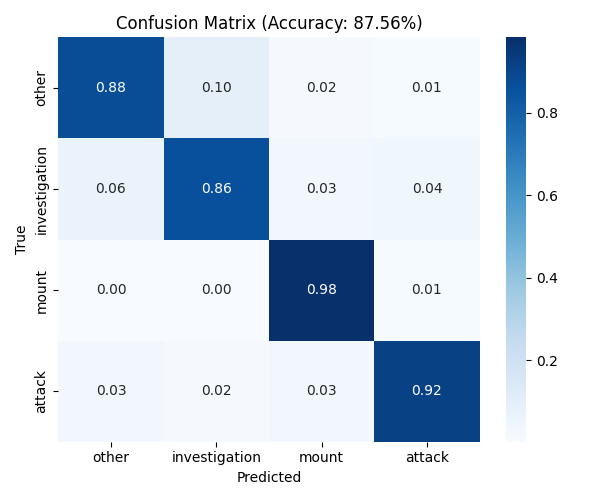
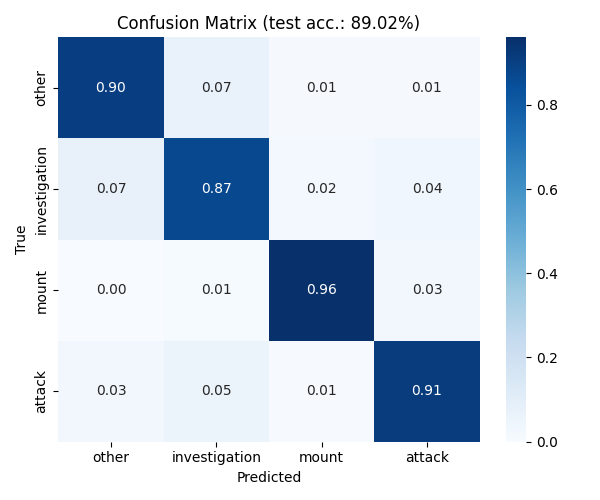
add models+results

diff --git a/src/train_dropout.py b/src/train_dropout.py
@@ -36,13 +36,17 @@ class ResNetClassifier(nn.Module):
         super().__init__()
         self.input_layer = nn.Linear(input_dim, hidden_dim)
         self.res1 = ResidualBlock(hidden_dim)
+        self.dropout = nn.Dropout(p=0.15)
         self.res2 = ResidualBlock(hidden_dim)
         self.output_layer = nn.Linear(hidden_dim, num_classes)
 
     def forward(self, x):
         x = torch.relu(self.input_layer(x))
+        x = self.dropout(x)
         x = self.res1(x)
+        x = self.dropout(x)
         x = self.res2(x)
+        x = self.dropout(x)
         return self.output_layer(x)
 
 # train
@@ -51,6 +55,8 @@ def train(model, dataloader, optimizer, criterion, device, writer, epoch):
     running_loss = 0.0
     for i, (inputs, labels) in enumerate(dataloader):
         inputs, labels = inputs.to(device), labels.to(device)
+        # noise = torch.normal(0, 0.02, size=inputs.shape).to(device)
+        # inputs = inputs + noise
         optimizer.zero_grad()
         logits = model(inputs)
         loss = criterion(logits, labels)
@@ -80,7 +86,7 @@ def main():
     import argparse
     parser = argparse.ArgumentParser()
     parser.add_argument('--data', type=str, default='data/processed/data.pt')
-    parser.add_argument('--output', type=str, default='models/baseline_stratified.pth')
+    parser.add_argument('--output', type=str, default='models/dropout_stratified.pth')
     args = parser.parse_args()
 
     # load data
@@ -104,7 +110,7 @@ def main():
     optimizer = optim.Adam(model.parameters(), lr=1e-3, weight_decay=1e-2)
     weights = get_class_weights(train_y, num_classes=4).to(device)
     criterion = nn.CrossEntropyLoss(weight=weights, label_smoothing=0.1)
-    writer = SummaryWriter(log_dir='runs/baseline_stratified')
+    writer = SummaryWriter(log_dir='runs/dropout_stratified')
 
     best_val_acc = 0
     patience, patience_counter = 5, 0
@@ -133,14 +139,14 @@ def main():
     val_acc, val_cm = evaluate(model, val_loader, device)
     train_acc, train_cm = evaluate(model, train_loader, device)
 
-    if not os.path.exists('results/baseline_stratified'):
-        os.makedirs('results/baseline_stratified')
+    if not os.path.exists('results/dropout_stratified'):
+        os.makedirs('results/dropout_stratified')
 
     print("Final validation accuracy:", val_acc)
     print("Final training accuracy:", train_acc)
 
     # save metrics
-    with open('results/baseline_stratified/train_metrics.json', 'w') as f:
+    with open('results/dropout_stratified/train_metrics.json', 'w') as f:
         json.dump({
             'val_accuracy': val_acc,
             'val_confusion_matrix': val_cm,

diff --git a/src/evaluate_baseline.py b/src/evaluate_baseline.py
@@ -3,7 +3,7 @@ from torch.utils.data import DataLoader, TensorDataset
 from sklearn.metrics import accuracy_score, confusion_matrix
 import argparse
 import json
-from train_dropout import ResNetClassifier
+from train_baseline import ResNetClassifier
 
 def evaluate_model(data_path, model_path, output_path):
     device = torch.device('cuda' if torch.cuda.is_available() else 'cpu')
@@ -41,8 +41,8 @@ def evaluate_model(data_path, model_path, output_path):
 if __name__ == "__main__":
     parser = argparse.ArgumentParser()
     parser.add_argument('--data', type=str, default='data/processed/test.pt')
-    parser.add_argument('--model', type=str,  default='models/dropout_stratified.pth')
-    parser.add_argument('--output', type=str, default='results/dropout_stratified/test_metrics.json')
+    parser.add_argument('--model', type=str,  default='models/baseline_stratified.pth')
+    parser.add_argument('--output', type=str, default='results/baseline_stratified/test_metrics.json')
     args = parser.parse_args()
 
     evaluate_model(args.data, args.model, args.output)
